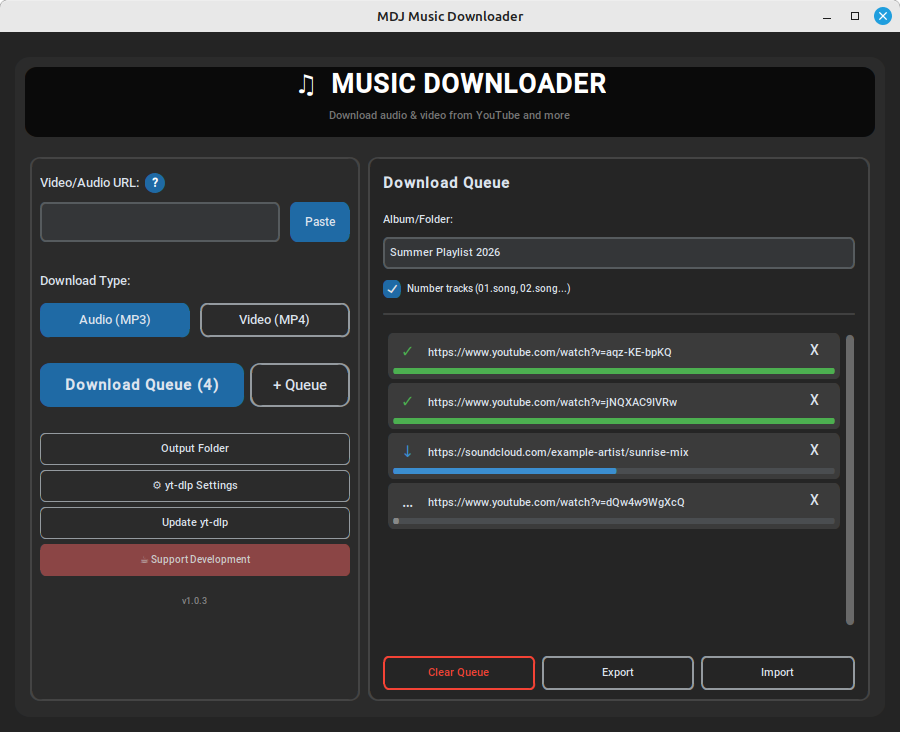
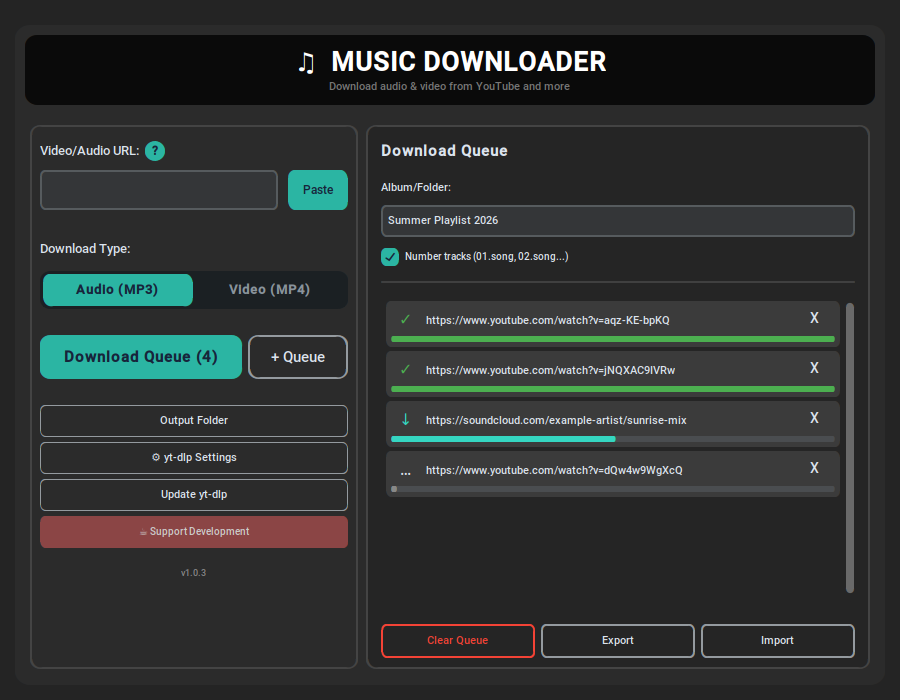
Softer teal accent (#2bb5a3); update screenshot, changelog and release notes

Changed region(s): [[0.0, 0.0, 1.0, 0.96], [0.9333, 0.3, 0.9644, 0.36], [0.9333, 0.42, 0.9644, 0.45]]

diff --git a/music_downloader_customtkinter.py b/music_downloader_customtkinter.py
@@ -121,10 +121,11 @@ ctk.set_appearance_mode("dark")
 ctk.set_default_color_theme("blue")
 
 # Brand colours, taken from the MDJ icon (teal headphones on navy)
-ACCENT = "#35d6c1"          # teal fill for primary buttons, switches, progress
-ACCENT_HOVER = "#2bb3a1"    # slightly darker teal on hover
+ACCENT = "#2bb5a3"          # softer teal for primary buttons, switches, progress
+                            # (the icon teal #35d6c1 is too bright for big areas)
+ACCENT_HOVER = "#249484"    # darker teal on hover
 ACCENT_TEXT = "#17243a"     # navy text on teal (white on teal is hard to read)
-ACCENT_FG = "#35d6c1"       # teal used as a text colour on dark backgrounds
+ACCENT_FG = "#35d6c1"       # brighter icon teal for small text on dark backgrounds
 ACCENT_DIM = "#1f4d49"      # dark teal tint: hover for outline buttons
 LIGHT_TEXT = "#DCE4EE"      # normal light text on dark/coloured buttons
 SWITCH_TRACK = "#1b2023"    # Download Type switch: dark track / unselected half
@@ -358,7 +359,7 @@ class MusicDownloader:
         elif "unsupported url" in stderr_lower or "no suitable extractor" in stderr_lower:
             return ("Unsupported URL.\n\n"
                     "This website is not supported.\n"
-                    "Click the blue ? next to 'Video/Audio URL' to see the list of supported websites.")
+                    "Click the ? next to 'Video/Audio URL' to see the list of supported websites.")
 
         elif "http error 403" in stderr_lower or "forbidden" in stderr_lower:
             return ("Access denied (403 error).\n\n"

diff --git a/CHANGELOG.md b/CHANGELOG.md
@@ -7,10 +7,16 @@ The format is based on [Keep a Changelog](https://keepachangelog.com/en/1.0.0/).
 ## [1.0.3] - 2026-11-09
 
 ### Added
-- "Supported Sites" is now a small blue **?** button next to "Video/Audio URL" (with a "Supported sites" tooltip), freeing room in the left panel.
+- "Supported Sites" is now a small round **?** button next to "Video/Audio URL" (with a "Supported sites" tooltip), freeing room in the left panel.
 - Click the folder path after "Saved to:" to open it in your file manager (underlined when the mouse is over it) — for single downloads and queues, including the Album/Folder subfolder.
 - "Update yt-dlp" works for every user on a shared computer: with an administrator password it updates yt-dlp for all users; without one (or if the password prompt is cancelled) it updates it just for that user, in `~/.local/share/mdj-music-downloader/`. The app always uses the newest working copy.
 - "Already up to date" check, so no password is asked for when there is nothing to update.
+
+### Changed
+- New colour scheme matching the MDJ icon: teal accents (buttons, progress bars, checkbox) with dark navy text on teal buttons, instead of the default blue.
+- "Download Type" is now a two-part switch: the selected type (Audio or Video) is filled teal, the other stays dark.
+- Tooltips and pop-up messages are now classic light yellow with dark text.
+- The header title and subtitle are centred together, with more space above the title.
 
 ### Fixed
 - After a queue finished, the result message was cleared straight away. It now stays and shows where the files were saved, e.g. "Queue complete: 3 downloaded, 0 failed / Saved to: ~/Music/My Album" (including the Album/Folder subfolder).

diff --git a/RELEASE_NOTES.md b/RELEASE_NOTES.md
@@ -9,7 +9,8 @@
 - **Click the folder path after "Saved to:" to open it** in your file manager.
 - The queue summary counts only the songs from the current run.
 - Long URLs in the queue are shortened with "..." instead of squeezing the X button.
-- "Supported Sites" moved to a small blue **?** next to "Video/Audio URL", so the progress bar and messages are no longer cut off at the bottom.
+- "Supported Sites" moved to a small **?** next to "Video/Audio URL", so the progress bar and messages are no longer cut off at the bottom.
+- **New look:** teal colours matching the MDJ icon, a switch for Audio / Video, and light-yellow tooltips.
 
 ### v1.0.2
 - **Fixed:** downloads failed with "yt-dlp error! Please reinstall the application" on Ubuntu 22.04, Linux Mint 21 and other systems with Python older than 3.11. The app now ships yt-dlp's standalone build, which includes its own Python. **Please update if you installed v1.0.0 or v1.0.1.**
